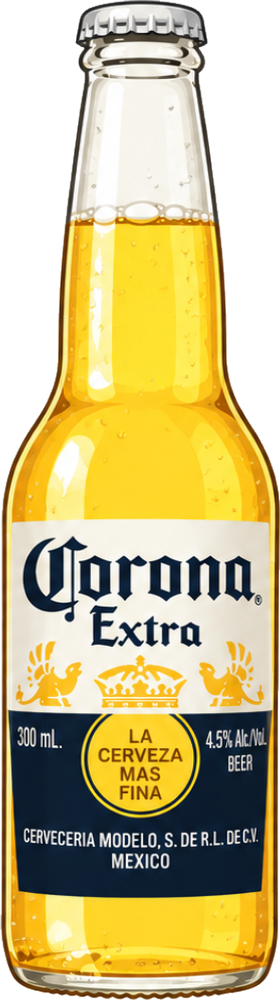
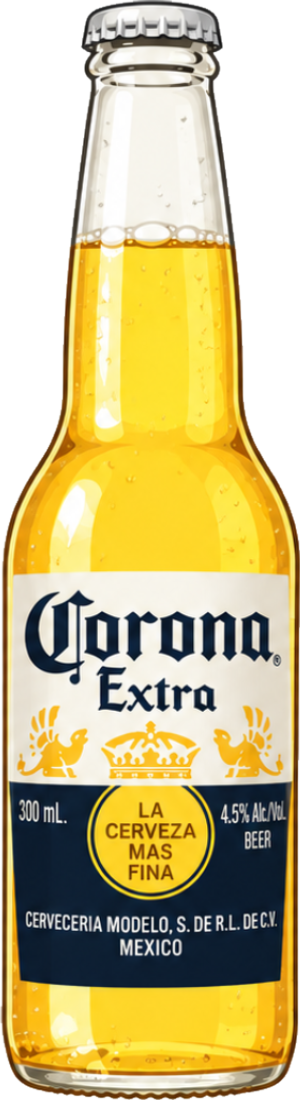
feat: resize Corona to match Lavie 400ml and scale it 2cm taller visually

diff --git a/src/views/drinkInventory.js b/src/views/drinkInventory.js
@@ -12,7 +12,7 @@ const DRINK_PRODUCTS_KEY = 'kg-drink-products';
 // ── Default Products ──────────────────────────
 const DEFAULT_PRODUCTS = [
   // ═══ BIA ═══
-  { id: 'dp1',  name: 'Corona',                 category: 'Bia',         unit: 'chai', emoji: '🍺', image: '/kiemkho/Corona.png', active: true, sort: 1,  volume: '250ml', caseSize: 24, caseSizeUnit: 'chai', cukcukAliases: ['corona'] },
+  { id: 'dp1',  name: 'Corona',                 category: 'Bia',         unit: 'chai', emoji: '🍺', image: '/kiemkho/Corona.png', active: true, sort: 1,  volume: '300ml', caseSize: 24, caseSizeUnit: 'chai', cukcukAliases: ['corona'] },
   { id: 'dp3',  name: 'Heineken 330ml',          category: 'Bia',         unit: 'lon',  emoji: '🍺', image: '/kiemkho/Heineken 330ml.png', active: true, sort: 3,  volume: '330ml', caseSize: 24, caseSizeUnit: 'lon',  cukcukAliases: ['heineken 330ml'] },
   { id: 'dp4',  name: 'Heineken Silver 330ml',   category: 'Bia',         unit: 'lon',  emoji: '🍺', image: '/kiemkho/Heineken Silver 330ml.png', active: true, sort: 4,  volume: '330ml', caseSize: 24, caseSizeUnit: 'lon',  cukcukAliases: ['heineken silver 330ml'] },
   { id: 'dp5',  name: 'Heineken Silver 250ml',   category: 'Bia',         unit: 'lon',  emoji: '🍺', image: '/kiemkho/Heineken Silver 250ml.png', active: true, sort: 5,  volume: '250ml', caseSize: 24, caseSizeUnit: 'lon',  cukcukAliases: ['heineken silver 250ml'] },
@@ -132,17 +132,17 @@ function uid() {
 }
 
 // ── Data Store ────────────────────────────────
-var DRINK_PRODUCTS_VERSION = 'kg-drink-products-v6'; // bump version when DEFAULT_PRODUCTS changes
+var DRINK_PRODUCTS_VERSION = 'kg-drink-products-v7'; // bump version when DEFAULT_PRODUCTS changes
 
 function getProducts() {
   try {
     // Check if product version matches - if not, reset to new defaults
     var currentVersion = localStorage.getItem('kg-drink-products-version');
-    if (currentVersion !== 'v6') {
+    if (currentVersion !== 'v7') {
       // Upgrade: replace with CUKCUK-synced product list
-      console.log('[DrinkStock] Upgrading product list to v6 (Redbull image added)');
+      console.log('[DrinkStock] Upgrading product list to v7 (Corona updated to 300ml)');
       localStorage.setItem(DRINK_PRODUCTS_KEY, JSON.stringify(DEFAULT_PRODUCTS));
-      localStorage.setItem('kg-drink-products-version', 'v6');
+      localStorage.setItem('kg-drink-products-version', 'v7');
       return JSON.parse(JSON.stringify(DEFAULT_PRODUCTS));
     }
     var saved = localStorage.getItem(DRINK_PRODUCTS_KEY);
@@ -153,7 +153,7 @@ function getProducts() {
   } catch (e) { /* ignore */ }
   // First-time: save defaults
   localStorage.setItem(DRINK_PRODUCTS_KEY, JSON.stringify(DEFAULT_PRODUCTS));
-  localStorage.setItem('kg-drink-products-version', 'v6');
+  localStorage.setItem('kg-drink-products-version', 'v7');
   return JSON.parse(JSON.stringify(DEFAULT_PRODUCTS));
 }
 
@@ -471,7 +471,9 @@ export function render() {
 
               // Calculate proportional scale based on volume
               var scaleFactor = 1;
-              if (p.volume) {
+              if (p.name === 'Corona') {
+                scaleFactor = 1.25; // Taller than Lavie 400ml (1.18)
+              } else if (p.volume) {
                 var ml = parseInt(p.volume.replace(/\\D/g, ''));
                 if (ml <= 250) {
                   // Tall 250ml cans have transparent padding on canvas to match 330ml dimensions
